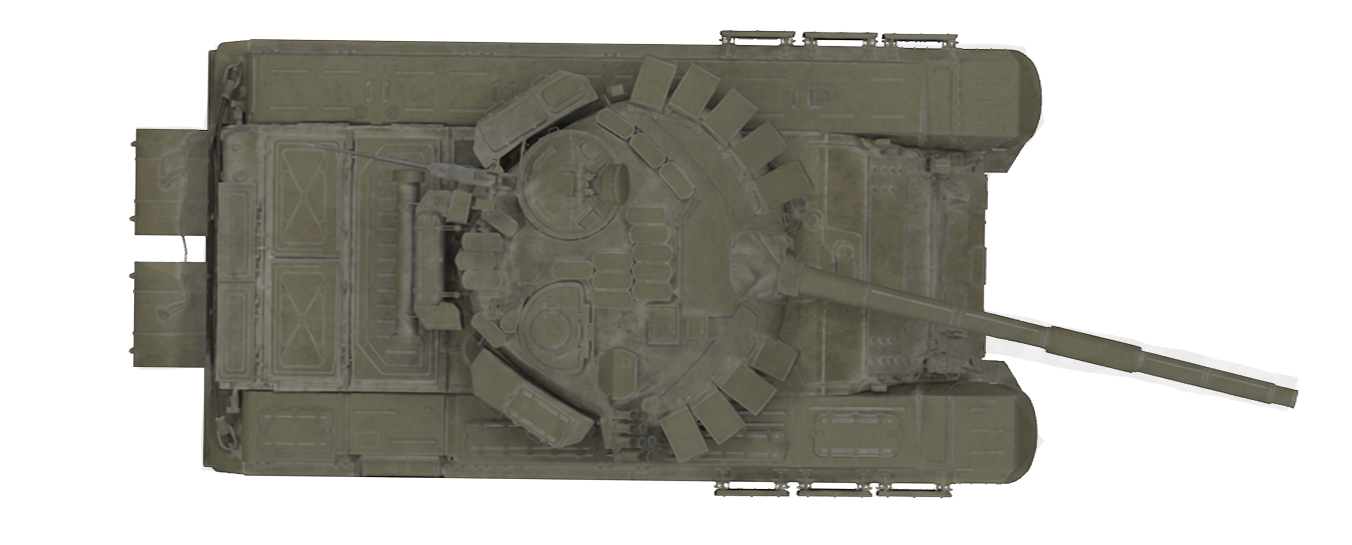
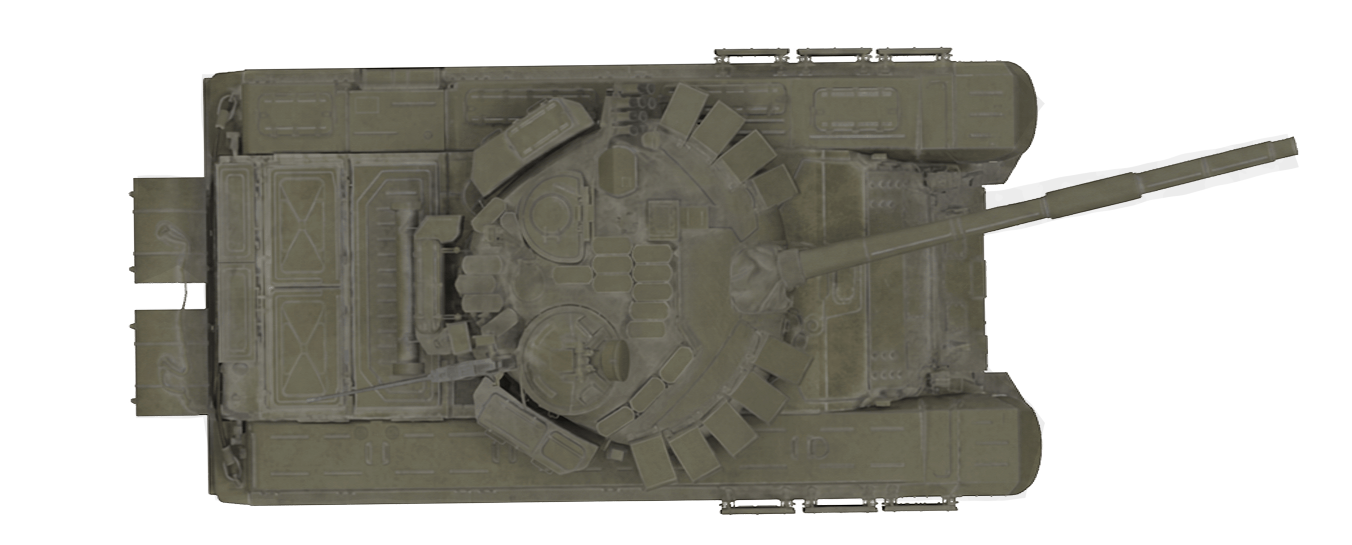
fix: все пофиксил

diff --git a/index.html b/index.html
@@ -35,28 +35,31 @@
       </div>
 
       <!-- Контейнер для Стартового Меню (генерируется JS) -->
-      <div class="start-menu-container" id="startMenuContainer"></div>
+    <div class="start-menu-container" id="startMenuContainer"></div>
+
+    <section id="scene-hangar" class="game-scene hidden">
+      <div class="hangar-bg-wrapper">
+        <!-- фон ангара -->
+        <img class="hangar-bg" src="./img/hangar/background.jpg" alt="Angar Background" />
+        <!-- танк -->
+        <img class="tank-layer" src="./img/hangar/tank.png" alt="Tank" />
+      </div>
+
+      <svg class="hitbox-layer scene-hitbox-layer" viewBox="0 0 1920 1080" preserveAspectRatio="none"
+        aria-hidden="true">
 
         <!-- Люк механика-водителя (Вход в кабину) -->
         <polygon class="hitbox interactive" data-action="enter_driver_seat"
           points="1150,500 1190,500 1190,600 1150,600"" />
 
-        <!-- Люк командира (Заглушка) -->
-        <polygon class="hitbox" data-action="enter_commander_seat" points="740,580 800,580 800,680 740,680" />
-
-        <!-- Люк наводчика (Заглушка) -->
+        <!-- Люк командира -->
         <polygon class="hitbox" data-action="enter_gunner_seat" points="860,410 820,410 820,520 860,520" />
+        
+        <!-- Люк наводчика -->
+        <polygon class="hitbox" data-action="enter_commander_seat" points="790,580 870,580 870,680 790,680" />
       </svg>
     </section>
 
-          <!-- Люк наводчика (Заглушка) -->
-          <polygon
-            class="hitbox"
-            data-action="enter_gunner_seat"
-            points="980,460 1050,460 1050,560 980,560"
-          />
-        </svg>
-      </section>
 
     <section id="scene-driver" class="game-scene hidden">
       <div class="scene-content" id="scene">
@@ -149,6 +152,9 @@
               </div>
               <div class="bcn-modal-buttons">
                 <button class="bcn-modal-btn" data-shutters-mode="false">Закрыто</button>
+                <button class="bcn-modal-btn" data-shutters-mode="partial">Полузакрыто</button>
+                <button class="bcn-modal-btn" data-shutters-mode="partial">Частично</button>
+                <button class="bcn-modal-btn" data-shutters-mode="partial">Полуоткрыто</button>
                 <button class="bcn-modal-btn" data-shutters-mode="true">Открыто</button>
               </div>
             </div>

diff --git a/js/UIController.js b/js/UIController.js
@@ -1005,11 +1005,11 @@ class UIController {
   _updateBcnModalImage(mode) {
     if (!this._bcnModalImageEl) return;
     const labels = {
-      off: "ВЫКЛЮЧЕНО",
-      on: "ВКЛЮЧЕНО",
-      pump: "ОТКАЧКА",
+      off: "./img/8/кран-выкл.png",
+      on: "./img/8/кран-вкл.png",
+      pump: "./img/8/кран-откач.png",
     };
-    this._bcnModalImageEl.innerHTML = `<span style="color: rgba(255,255,255,0.5); font-size: 14px;">${labels[mode] || "—"}</span>`;
+    this._bcnModalImageEl.innerHTML = `<img src="${labels[mode] || ""}" alt="БЦН" />`;
   }
 
   _hideAllActionModals() {

diff --git a/js/ControlOverlayDefs.js b/js/ControlOverlayDefs.js
@@ -27,14 +27,17 @@ const CONTROL_OVERLAY_DEFS = {
     },
   },
   shutters: {
-    kind: "boolean",
+    kind: "enum",
     stateKey: "shutters",
     inflate: 1.0,
     offsetX: -5,
     offsetY: 15,
     z: 55,
-    off: "./img/2/2_0000s_0000_Слой-251-копия-2.png",
-    on: "./img/2/2_0000s_0002_Слой-251.png",
+    frames: {
+      false: "./img/2/2_0000s_0000_Слой-251-копия-2.png",
+      partial: "./img/2/2_0000s_0001_Слой-251-копия.png",
+      true: "./img/2/2_0000s_0002_Слой-251.png",
+    },
   },
   "right-tank": {
     kind: "boolean",

diff --git a/main.js b/main.js
@@ -10,7 +10,7 @@ import { HangarScene } from './js/HangarScene.js';
 import { DriverScene } from './js/DriverScene.js';
 import { CommanderScene } from './js/CommanderScene.js'; 
 
-const APP_MODE = "prod"; 
+const APP_MODE = "debug"; 
 const IS_DEBUG = APP_MODE === "debug";
 
 

diff --git a/styles.css b/styles.css
@@ -261,8 +261,10 @@ body.app-prod .hitbox-layer.labels-visible .hitbox-label {
 }
 
 .debug-console {
+  /* display: none; */
+
   position: absolute;
-  right: 12px;
+  left: 12px;
   top: 12px;
   z-index: 1100;
   min-width: 280px;
